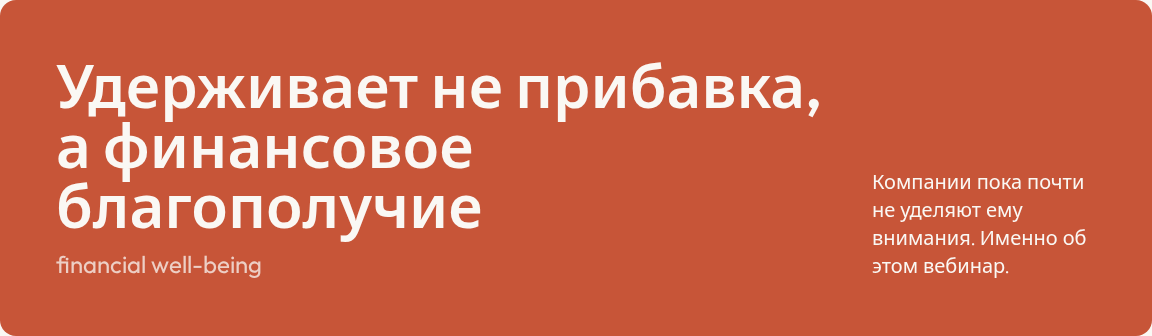
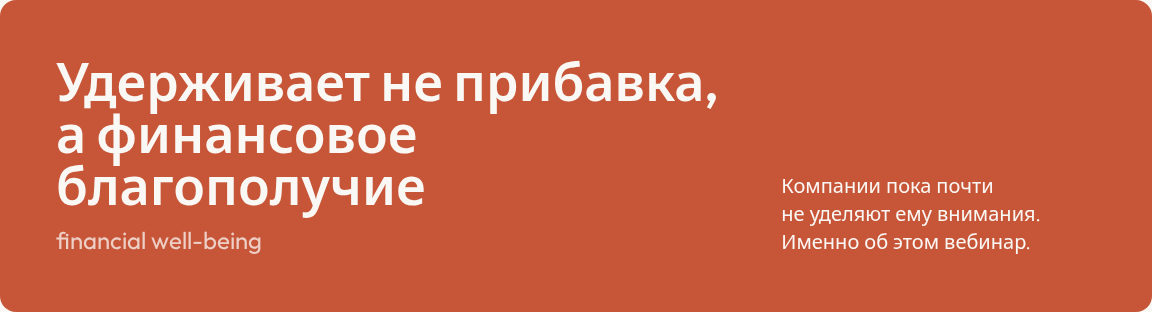
Changes

Changed region(s): [[0.0312, 0.1731, 0.7188, 0.7212], [0.6562, 0.5192, 0.9375, 0.8365], [0.0312, 0.75, 0.25, 0.8365]]

diff --git a/src/pages/HrWeb.tsx b/src/pages/HrWeb.tsx
@@ -75,11 +75,11 @@ const HrWeb = () => {
               </div>
             </figure>
             <div className="mt-6 rounded-2xl bg-accent p-7 text-accent-foreground md:mt-8 md:p-12 lg:grid lg:grid-cols-12 lg:items-end lg:gap-12 lg:p-14">
-              <p className="font-display text-3xl font-semibold leading-[1.05] tracking-normal md:text-5xl lg:col-span-9 lg:text-6xl">
+              <p className="font-display text-3xl font-semibold leading-[1.05] tracking-normal md:text-5xl lg:col-span-8 lg:text-[3.25rem]">
                 {nbsp("Удерживает не прибавка, а финансовое благополучие")}
                 <span className="mt-3 block text-lg font-normal opacity-75 md:text-2xl">financial well-being</span>
               </p>
-              <p className="mt-6 max-w-md text-lg leading-snug md:text-xl lg:col-span-3 lg:mt-0">{nbsp("Компании пока почти не уделяют ему внимания. Именно об этом вебинар.")}</p>
+              <p className="mt-6 max-w-md text-lg leading-snug md:text-xl lg:col-span-4 lg:mt-0">{nbsp("Компании пока почти не уделяют ему внимания. Именно об этом вебинар.")}</p>
             </div>
           </div>
         </section>
